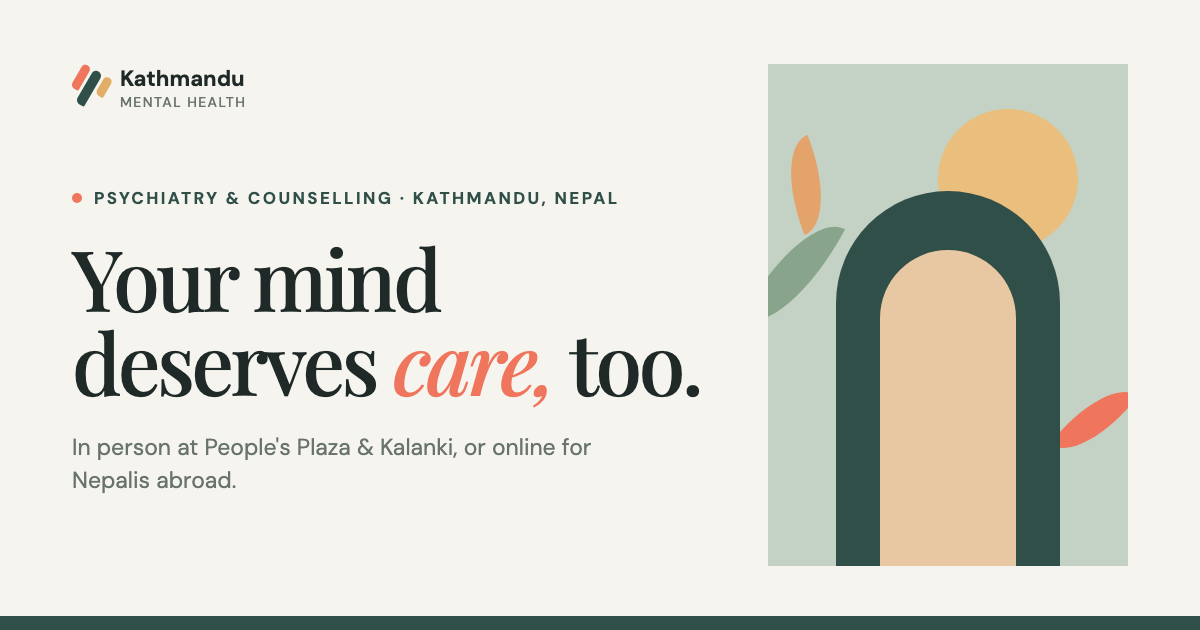
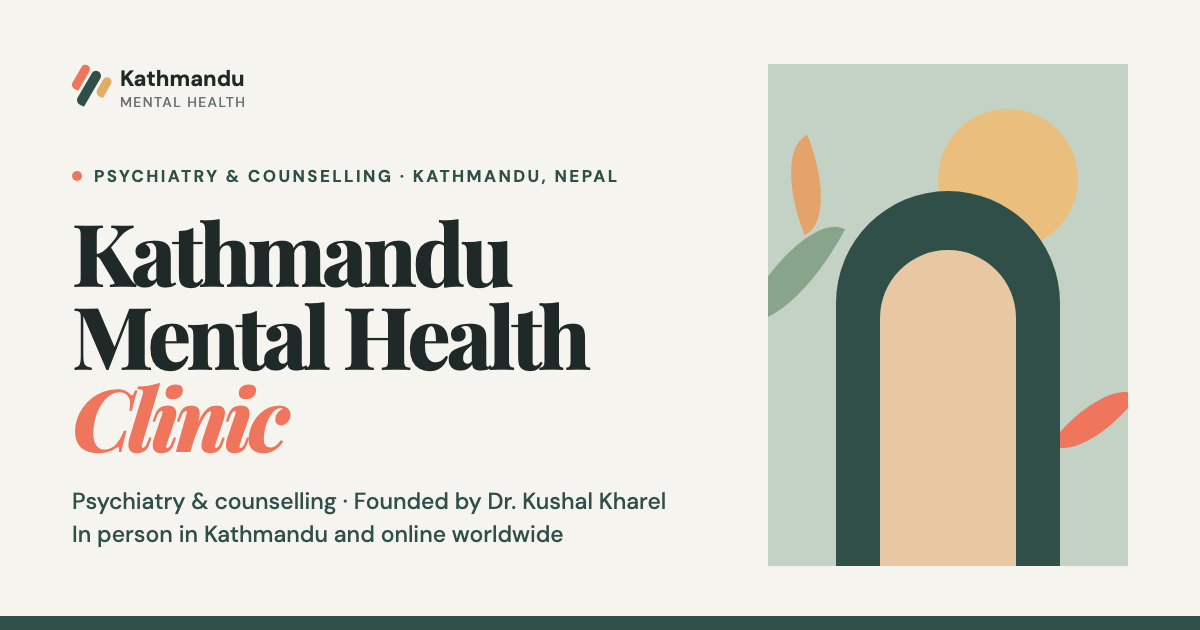
Brand-first top of page and online care for all three doctors
- Clinic name is now the H1: very large, extra-bold display type, with
  "and Psychiatry Counseling Center" beneath it
- Founder card (photo, title, NMC number) directly under the clinic name;
  Dr. Kushal Kharel stays first in the doctors section
- Header brand larger and bolder; share image redrawn around the clinic name
- Online consultation and therapy stated for all three doctors: hero, facts panel,
  doctor cards, doctors intro, abroad section, FAQs, structured data, llms.txt

Changed region(s): [[0.0617, 0.2714, 0.5858, 0.7238], [0.0617, 0.754, 0.555, 0.8746]]

diff --git a/index.html b/index.html
@@ -31,7 +31,7 @@
 
     <link rel="preconnect" href="https://fonts.googleapis.com" />
     <link rel="preconnect" href="https://fonts.gstatic.com" crossorigin />
-    <link href="https://fonts.googleapis.com/css2?family=DM+Sans:wght@400;500;600;700&family=Noto+Sans+Devanagari:wght@400;500;600&family=Playfair+Display:ital,wght@0,500;0,600;0,700;1,500&display=swap" rel="stylesheet" />
+    <link href="https://fonts.googleapis.com/css2?family=DM+Sans:wght@400;500;600;700&family=Noto+Sans+Devanagari:wght@400;500;600&family=Playfair+Display:ital,wght@0,500;0,600;0,700;0,800;1,500;1,700;1,800&display=swap" rel="stylesheet" />
     <link rel="stylesheet" href="styles.css" />
 
     <script type="application/ld+json">
@@ -91,7 +91,7 @@
       ],
       "url": "https://kathmandumentalhealth.com.np/",
       "image": "https://kathmandumentalhealth.com.np/og-image.png",
-      "description": "Psychiatry and counselling clinic in Kathmandu, Nepal, treating depression, anxiety, OCD, sleep problems, ADHD, addiction, bipolar disorder and memory concerns, in person and online for Nepalis abroad.",
+      "description": "Psychiatry and counselling clinic in Kathmandu, Nepal, treating depression, anxiety, OCD, sleep problems, ADHD, addiction, bipolar disorder and memory concerns, in person and online for Nepalis abroad. Founded by Dr. Kushal Kharel; all three doctors provide online consultation and therapy.",
       "telephone": "+9779714556408",
       "medicalSpecialty": "https://schema.org/Psychiatric",
       "isAcceptingNewPatients": true,
@@ -591,7 +591,7 @@
           "name": "What is Kathmandu Mental Health Clinic and Psychiatry Counseling Center?",
           "acceptedAnswer": {
             "@type": "Answer",
-            "text": "It is a psychiatry and counselling clinic in Kathmandu, Nepal. Psychiatrists and counsellors here care for adults, teenagers and children with depression, anxiety, OCD, sleep problems, ADHD, addiction, memory problems and more. You can visit us in person at People's Plaza (New Road) or Kalanki, or meet us online by video from anywhere in the world. The clinic was founded by consultant psychiatrist Dr. Kushal Kharel."
+            "text": "It is a psychiatry and counselling clinic in Kathmandu, Nepal. Psychiatrists and counsellors here care for adults, teenagers and children with depression, anxiety, OCD, sleep problems, ADHD, addiction, memory problems and more. You can visit us in person at People's Plaza (New Road) or Kalanki, or meet us online by video from anywhere in the world. The clinic was founded by consultant psychiatrist Dr. Kushal Kharel, and all three of our doctors offer online consultation and therapy."
           }
         },
         {
@@ -703,7 +703,7 @@
           "name": "Who are the doctors at Kathmandu Mental Health Clinic?",
           "acceptedAnswer": {
             "@type": "Answer",
-            "text": "Our doctors are Dr. Kushal Kharel, the founder of the clinic, Dr. Sunita Lama and Dr. Bhishma K.C. All three are registered with the Nepal Medical Council, hold an MD in Neuropsychiatry and provide cognitive behavioural therapy (CBT); Dr. Lama is also formally certified in CBT. Dr. Kharel completed an MBBS at Jalalabad Medical College and an MD at KIST Medical College. Dr. Lama completed an MBBS at Jalalabad Medical College and an MD at Gandaki Medical College. Dr. K.C. completed an MBBS at Nepal Medical College and an MD at KIST Medical College. Read more in the Our doctors section."
+            "text": "Our doctors are Dr. Kushal Kharel, the founder of the clinic, Dr. Sunita Lama and Dr. Bhishma K.C. All three are registered with the Nepal Medical Council, hold an MD in Neuropsychiatry and provide cognitive behavioural therapy (CBT), both in person and online; Dr. Lama is also formally certified in CBT. Dr. Kharel completed an MBBS at Jalalabad Medical College and an MD at KIST Medical College. Dr. Lama completed an MBBS at Jalalabad Medical College and an MD at Gandaki Medical College. Dr. K.C. completed an MBBS at Nepal Medical College and an MD at KIST Medical College. Read more in the Our doctors section."
           }
         },
         {
@@ -879,7 +879,7 @@
           "name": "Do you offer psychotherapy and counselling?",
           "acceptedAnswer": {
             "@type": "Answer",
-            "text": "Yes. All of our doctors provide cognitive behavioural therapy (CBT) and supportive counselling alongside medical assessment and medicine when appropriate, and Dr. Sunita Lama is also formally certified in CBT. If a specialised therapy would suit you better, we can refer you to a clinical psychologist."
+            "text": "Yes. All of our doctors provide cognitive behavioural therapy (CBT) and supportive counselling, in person or online, alongside medical assessment and medicine when appropriate, and Dr. Sunita Lama is also formally certified in CBT. If a specialised therapy would suit you better, we can refer you to a clinical psychologist."
           }
         },
         {
@@ -927,7 +927,7 @@
           "name": "Do you offer online psychiatric consultation within Nepal?",
           "acceptedAnswer": {
             "@type": "Answer",
-            "text": "Yes. Online consultation, by video call (for example Google Meet) or by phone, is available for patients anywhere in Nepal and for Nepalis living abroad. It suits follow-up appointments and many first assessments. Urgent or complex situations may still need an in-person or emergency evaluation."
+            "text": "Yes. All three of our doctors provide online consultation and therapy, by video call (for example Google Meet) or by phone, is available for patients anywhere in Nepal and for Nepalis living abroad. It suits follow-up appointments and many first assessments. Urgent or complex situations may still need an in-person or emergency evaluation."
           }
         },
         {
@@ -1023,7 +1023,7 @@
           "name": "Can I consult a psychiatrist in Kathmandu online from another country?",
           "acceptedAnswer": {
             "@type": "Answer",
-            "text": "Yes. You can meet our psychiatrists and counsellors by private video call from anywhere with a reliable internet connection, in Nepali or English. It is designed for Nepalis living, studying or working overseas."
+            "text": "Yes. All three of our doctors provide online consultation and therapy, so you can meet them by private video call from anywhere with a reliable internet connection, in Nepali or English. It is designed for Nepalis living, studying or working overseas."
           }
         },
         {
@@ -1215,9 +1215,17 @@
 
     <main id="top">
       <section class="hero" aria-labelledby="hero-title">
+        <div class="hero-brand">
+          <h1 id="hero-title"><span class="eyebrow"><span class="eyebrow-dot"></span> Psychiatrist &amp; counselling in Kathmandu<span class="sr-only">: </span></span><span class="brand-name">Kathmandu Mental Health <em>Clinic</em></span></h1>
+          <p class="brand-sub">and Psychiatry Counseling Center</p>
+          <a class="founder-strip" href="#dr-kushal-kharel">
+            <img src="images/dr-kushal-kharel.jpg" alt="" width="900" height="857" decoding="async" />
+            <span><small>Founded by</small><strong>Dr. Kushal Kharel</strong><em>Consultant Psychiatrist · NMC No. 27199</em></span>
+          </a>
+        </div>
         <div class="hero-copy">
-          <h1 id="hero-title"><span class="eyebrow"><span class="eyebrow-dot"></span> Psychiatrist &amp; counselling in Kathmandu</span>Your mind deserves <em>care,</em> too.</h1>
-          <p class="hero-text">Kathmandu Mental Health Clinic and Psychiatry Counseling Center: psychiatrists and counsellors for depression, anxiety, OCD, sleep problems, ADHD and addiction. In person in Kathmandu, or online from anywhere in the world.</p>
+          <p class="hero-tagline">Your mind deserves <em>care,</em> too.</p>
+          <p class="hero-text">Psychiatric care and counselling for depression, anxiety, OCD, sleep problems, ADHD and addiction. Visit us in Kathmandu, or consult any of our three doctors online from anywhere in the world.</p>
           <div class="hero-actions">
             <a class="button button-primary" href="#contact">Book a consultation <span aria-hidden="true">↗</span></a>
             <a class="text-link" href="#abroad">Nepali living abroad? <span aria-hidden="true">↓</span></a>
@@ -1259,7 +1267,7 @@
             <div><dt>Who we help</dt><dd>Children, teenagers, adults, older adults, couples and families</dd></div>
             <div><dt>Locations</dt><dd>People's Plaza, New Road<br />Kalanki Bhatbhateni, Kathmandu</dd></div>
             <div><dt>Call</dt><dd><a href="tel:+9779714556408">9714556408</a></dd></div>
-            <div><dt>Online</dt><dd>Video consultation across Nepal and abroad</dd></div>
+            <div><dt>Online</dt><dd>Online consultation and therapy with all three doctors, across Nepal and abroad</dd></div>
             <div><dt>Languages</dt><dd>Nepali · English</dd></div>
             <div><dt>Referral</dt><dd>Not required. Book directly.</dd></div>
           </dl>
@@ -1417,7 +1425,7 @@
         <div class="section-label">[ 03 — Our doctors ]</div>
         <div class="doctors-heading">
           <h2>People who <em>listen</em> first.</h2>
-          <p>Kathmandu Mental Health Clinic was founded by Dr. Kushal Kharel. Our psychiatrists work together, so your care stays joined up. Meet the doctors you may see at the clinic.</p>
+          <p>Kathmandu Mental Health Clinic was founded by Dr. Kushal Kharel. Our psychiatrists work together, so your care stays joined up. All three doctors offer online consultation and therapy, so you can meet any of them from anywhere.</p>
         </div>
         <div class="doctor-grid">
           <article class="doctor-card is-founder reveal" data-doctor="1" id="dr-kushal-kharel">
@@ -1426,7 +1434,7 @@
               <span class="badge">MD Neuropsychiatry</span>
               <h3>Dr. Kushal Kharel</h3>
               <p class="doctor-role">Founder &amp; Consultant Psychiatrist</p>
-              <ul class="creds"><li><strong>MD Neuropsychiatry</strong><span>KIST Medical College</span></li><li><strong>MBBS</strong><span>Jalalabad Medical College</span></li><li><strong>CBT</strong><span>Provides cognitive behavioural therapy</span></li><li><strong>NMC No.</strong><span>27199 · Nepal Medical Council</span></li></ul>
+              <ul class="creds"><li><strong>MD Neuropsychiatry</strong><span>KIST Medical College</span></li><li><strong>MBBS</strong><span>Jalalabad Medical College</span></li><li><strong>CBT</strong><span>Provides cognitive behavioural therapy</span></li><li><strong>NMC No.</strong><span>27199 · Nepal Medical Council</span></li><li><strong>Online</strong><span>Online consultation and therapy</span></li></ul>
               <p class="doctor-bio">Dr. Kushal Kharel is the founder of Kathmandu Mental Health Clinic and Psychiatry Counseling Center and a consultant psychiatrist. Dr. Kharel completed an MBBS at Jalalabad Medical College and an MD in Neuropsychiatry at KIST Medical College, and provides cognitive behavioural therapy (CBT) alongside medical assessment and treatment.</p>
               <a class="text-link dark-link" href="#contact">Book with Dr. Kharel <span aria-hidden="true">↗</span></a>
             </div>
@@ -1437,7 +1445,7 @@
               <span class="badge">NMC certified</span>
               <h3>Dr. Sunita Lama</h3>
               <p class="doctor-role">Consultant Psychiatrist</p>
-              <ul class="creds"><li><strong>MD Neuropsychiatry</strong><span>Gandaki Medical College</span></li><li><strong>MBBS</strong><span>Jalalabad Medical College</span></li><li><strong>CBT</strong><span>Certified in cognitive behavioural therapy</span></li><li><strong>NMC No.</strong><span>26944 · Certified by the Nepal Medical Council</span></li></ul>
+              <ul class="creds"><li><strong>MD Neuropsychiatry</strong><span>Gandaki Medical College</span></li><li><strong>MBBS</strong><span>Jalalabad Medical College</span></li><li><strong>CBT</strong><span>Certified in cognitive behavioural therapy</span></li><li><strong>NMC No.</strong><span>26944 · Certified by the Nepal Medical Council</span></li><li><strong>Online</strong><span>Online consultation and therapy</span></li></ul>
               <p class="doctor-bio">Dr. Sunita Lama is a consultant psychiatrist certified by the Nepal Medical Council, and is also certified in cognitive behavioural therapy (CBT). Dr. Lama brings together medical training in neuropsychiatry and structured CBT skills, so care can include talk therapy, medicine, or both, depending on what helps you.</p>
               <a class="text-link dark-link" href="#contact">Book with Dr. Lama <span aria-hidden="true">↗</span></a>
             </div>
@@ -1448,7 +1456,7 @@
               <span class="badge">MD Neuropsychiatry</span>
               <h3>Dr. Bhishma K.C.</h3>
               <p class="doctor-role">Psychiatrist</p>
-              <ul class="creds"><li><strong>MD Neuropsychiatry</strong><span>KIST Medical College</span></li><li><strong>MBBS</strong><span>Nepal Medical College</span></li><li><strong>CBT</strong><span>Provides cognitive behavioural therapy</span></li><li><strong>NMC No.</strong><span>21985 · Nepal Medical Council</span></li></ul>
+              <ul class="creds"><li><strong>MD Neuropsychiatry</strong><span>KIST Medical College</span></li><li><strong>MBBS</strong><span>Nepal Medical College</span></li><li><strong>CBT</strong><span>Provides cognitive behavioural therapy</span></li><li><strong>NMC No.</strong><span>21985 · Nepal Medical Council</span></li><li><strong>Online</strong><span>Online consultation and therapy</span></li></ul>
               <p class="doctor-bio">Dr. Bhishma K.C. is a psychiatrist with an MBBS from Nepal Medical College and an MD in Neuropsychiatry from KIST Medical College. Dr. K.C. offers medical assessment, treatment planning and cognitive behavioural therapy (CBT), so care can include talk therapy, medicine, or both, depending on what helps you.</p>
               <a class="text-link dark-link" href="#contact">Book with Dr. K.C. <span aria-hidden="true">↗</span></a>
             </div>
@@ -1462,7 +1470,7 @@
         <div class="abroad-hero">
           <div class="reveal">
             <h2 id="abroad-title">Far from home.<br /><em>Not far from care.</em></h2>
-            <p class="abroad-lead">Living, studying or working outside Nepal? Meet a Kathmandu psychiatrist or counsellor by private video call, in Nepali or English, at a time that works in your time zone. Whether you are in Doha, Dubai, Kuala Lumpur, Tokyo, Sydney, London or New York, support is one call away.</p>
+            <p class="abroad-lead">Living, studying or working outside Nepal? All three of our doctors provide online consultation and therapy by private video call, in Nepali or English, at a time that works in your time zone. Whether you are in Doha, Dubai, Kuala Lumpur, Tokyo, Sydney, London or New York, support is one call away.</p>
             <ul class="abroad-points">
               <li>Speak in Nepali, English, or a mix of both</li>
               <li>Evening, early-morning and shift-friendly times</li>
@@ -1623,7 +1631,7 @@
           <div class="faq-list" data-faq-group="abroad">
             <details class="faq-item" id="faq-online-consultation-from-abroad" data-cat="abroad">
               <summary><h4 class="faq-q">Can I consult a psychiatrist in Kathmandu online from another country?</h4></summary>
-              <div class="faq-answer"><p>Yes. You can meet our psychiatrists and counsellors by private video call from anywhere with a reliable internet connection, in Nepali or English. It is designed for Nepalis living, studying or working overseas.</p></div>
+              <div class="faq-answer"><p>Yes. All three of our doctors provide online consultation and therapy, so you can meet them by private video call from anywhere with a reliable internet connection, in Nepali or English. It is designed for Nepalis living, studying or working overseas.</p></div>
             </details>
             <details class="faq-item" id="faq-which-countries" data-cat="abroad">
               <summary><h4 class="faq-q">Which countries do you see patients from?</h4></summary>
@@ -1732,7 +1740,7 @@
         <div class="faq-list" id="faq-list" data-faq-group="general">
             <details class="faq-item" id="faq-what-is-kathmandu-mental-health-clinic" data-cat="start">
               <summary><h3 class="faq-q">What is Kathmandu Mental Health Clinic and Psychiatry Counseling Center?</h3></summary>
-              <div class="faq-answer"><p>It is a psychiatry and counselling clinic in Kathmandu, Nepal. Psychiatrists and counsellors here care for adults, teenagers and children with depression, anxiety, OCD, sleep problems, ADHD, addiction, memory problems and more. You can visit us in person at People's Plaza (New Road) or Kalanki, or meet us online by video from anywhere in the world. The clinic was founded by consultant psychiatrist Dr. Kushal Kharel.</p></div>
+              <div class="faq-answer"><p>It is a psychiatry and counselling clinic in Kathmandu, Nepal. Psychiatrists and counsellors here care for adults, teenagers and children with depression, anxiety, OCD, sleep problems, ADHD, addiction, memory problems and more. You can visit us in person at People's Plaza (New Road) or Kalanki, or meet us online by video from anywhere in the world. The clinic was founded by consultant psychiatrist Dr. Kushal Kharel, and all three of our doctors offer online consultation and therapy.</p></div>
             </details>
             <details class="faq-item" id="faq-how-to-book-appointment" data-cat="start">
               <summary><h3 class="faq-q">How do I book an appointment?</h3></summary>
@@ -1788,7 +1796,7 @@
             </details>
             <details class="faq-item" id="faq-who-are-the-doctors" data-cat="doctors">
               <summary><h3 class="faq-q">Who are the doctors at Kathmandu Mental Health Clinic?</h3></summary>
-              <div class="faq-answer"><p>Our doctors are Dr. Kushal Kharel, the founder of the clinic, Dr. Sunita Lama and Dr. Bhishma K.C. All three are registered with the Nepal Medical Council, hold an MD in Neuropsychiatry and provide cognitive behavioural therapy (CBT); Dr. Lama is also formally certified in CBT. Dr. Kharel completed an MBBS at Jalalabad Medical College and an MD at KIST Medical College. Dr. Lama completed an MBBS at Jalalabad Medical College and an MD at Gandaki Medical College. Dr. K.C. completed an MBBS at Nepal Medical College and an MD at KIST Medical College. Read more in the <a href="#doctors">Our doctors</a> section.</p></div>
+              <div class="faq-answer"><p>Our doctors are Dr. Kushal Kharel, the founder of the clinic, Dr. Sunita Lama and Dr. Bhishma K.C. All three are registered with the Nepal Medical Council, hold an MD in Neuropsychiatry and provide cognitive behavioural therapy (CBT), both in person and online; Dr. Lama is also formally certified in CBT. Dr. Kharel completed an MBBS at Jalalabad Medical College and an MD at KIST Medical College. Dr. Lama completed an MBBS at Jalalabad Medical College and an MD at Gandaki Medical College. Dr. K.C. completed an MBBS at Nepal Medical College and an MD at KIST Medical College. Read more in the <a href="#doctors">Our doctors</a> section.</p></div>
             </details>
             <details class="faq-item" id="faq-nmc-registration-numbers" data-cat="doctors">
               <summary><h3 class="faq-q">What are your doctors' Nepal Medical Council registration numbers?</h3></summary>
@@ -1876,7 +1884,7 @@
             </details>
             <details class="faq-item" id="faq-psychotherapy-and-counselling" data-cat="treatment">
               <summary><h3 class="faq-q">Do you offer psychotherapy and counselling?</h3></summary>
-              <div class="faq-answer"><p>Yes. All of our doctors provide cognitive behavioural therapy (CBT) and supportive counselling alongside medical assessment and medicine when appropriate, and Dr. Sunita Lama is also formally certified in CBT. If a specialised therapy would suit you better, we can refer you to a clinical psychologist.</p></div>
+              <div class="faq-answer"><p>Yes. All of our doctors provide cognitive behavioural therapy (CBT) and supportive counselling, in person or online, alongside medical assessment and medicine when appropriate, and Dr. Sunita Lama is also formally certified in CBT. If a specialised therapy would suit you better, we can refer you to a clinical psychologist.</p></div>
             </details>
             <details class="faq-item" id="faq-when-to-see-a-psychiatrist" data-cat="treatment">
               <summary><h3 class="faq-q">When should someone see a psychiatrist?</h3></summary>
@@ -1900,7 +1908,7 @@
             </details>
             <details class="faq-item" id="faq-online-consultation-in-nepal" data-cat="online">
               <summary><h3 class="faq-q">Do you offer online psychiatric consultation within Nepal?</h3></summary>
-              <div class="faq-answer"><p>Yes. Online consultation, by video call (for example Google Meet) or by phone, is available for patients anywhere in Nepal and for Nepalis living abroad. It suits follow-up appointments and many first assessments. Urgent or complex situations may still need an in-person or emergency evaluation.</p></div>
+              <div class="faq-answer"><p>Yes. All three of our doctors provide online consultation and therapy, by video call (for example Google Meet) or by phone, is available for patients anywhere in Nepal and for Nepalis living abroad. It suits follow-up appointments and many first assessments. Urgent or complex situations may still need an in-person or emergency evaluation.</p></div>
             </details>
             <details class="faq-item" id="faq-online-prescriptions" data-cat="online">
               <summary><h3 class="faq-q">Can I get a prescription after an online consultation?</h3></summary>

diff --git a/styles.css b/styles.css
@@ -286,3 +286,43 @@ address{color:var(--muted);font-size:14px;line-height:1.55;margin:0 0 12px}
   .orbit-ring,.dot-chip,.orbit-pulse{animation:none}
   .js .reveal{opacity:1;transform:none;transition:none}
 }
+
+
+/* ==========================================================================
+   Brand-first hero: clinic name very large and bold, founder directly beneath
+   ========================================================================== */
+.site-header .brand strong{font-size:21px;font-weight:800;letter-spacing:-.02em}
+.site-header .brand em{color:var(--deep);font-size:11.5px;font-weight:700}
+.site-header .brand-mark{margin-right:8px;transform:rotate(30deg) scale(1.3)}
+
+.hero{padding-top:34px}
+.hero-brand{grid-column:1/-1;padding-bottom:12px}
+.hero h1{font-size:clamp(3rem,8.6vw,7.2rem);font-weight:800;letter-spacing:-.045em;line-height:.94;margin:16px 0 0}
+.hero h1 .brand-name{display:block}
+.hero h1 .brand-name em{color:var(--coral);font-style:italic;font-weight:800}
+.brand-sub{color:var(--deep);font-family:"Playfair Display",serif;font-size:clamp(1.3rem,2.6vw,2.1rem);font-style:italic;font-weight:600;letter-spacing:-.02em;margin:10px 0 0}
+.founder-strip{align-items:center;background:#fff;border:1px solid #dfe2da;border-left:4px solid var(--coral);display:inline-flex;gap:14px;margin-top:26px;max-width:100%;padding:10px 24px 10px 10px;transition:box-shadow .2s,transform .2s}
+.founder-strip:hover{box-shadow:0 8px 24px rgba(31,41,39,.1);transform:translateY(-2px)}
+.founder-strip img{border-radius:50%;flex:none;height:62px;object-fit:cover;object-position:50% 18%;width:62px}
+.founder-strip small{color:var(--coral-ink);display:block;font-size:10px;font-weight:700;letter-spacing:.12em;text-transform:uppercase}
+.founder-strip strong{display:block;font-family:"Playfair Display",serif;font-size:21px;font-weight:700;line-height:1.15}
+.founder-strip em{color:var(--muted);display:block;font-size:12.5px;font-style:normal}
+.hero-copy{padding:34px 0 0 0}
+.hero-tagline{font-family:"Playfair Display",serif;font-size:clamp(2rem,3.6vw,3.1rem);font-weight:500;letter-spacing:-.035em;line-height:1.04;margin:0 0 18px}
+.hero-tagline em{color:var(--coral);font-style:italic}
+.hero-note{margin-top:38px}
+.hero-art{margin:34px 0 0 auto;min-height:470px;width:min(100%,470px)}
+@media(max-width:960px){
+  .hero-art{margin:50px 0 0;width:100%}
+}
+@media(max-width:720px){
+  .hero{padding-top:28px}
+  .hero h1{font-size:clamp(2.3rem,11.4vw,3.6rem)}
+  .brand-sub{font-size:1.3rem}
+  .founder-strip{margin-top:20px;padding-right:16px}
+  .founder-strip img{height:54px;width:54px}
+  .founder-strip strong{font-size:18px}
+  .hero-copy{padding-top:28px}
+  .hero-art{min-height:370px}
+  .site-header .brand strong{font-size:18px}
+}
